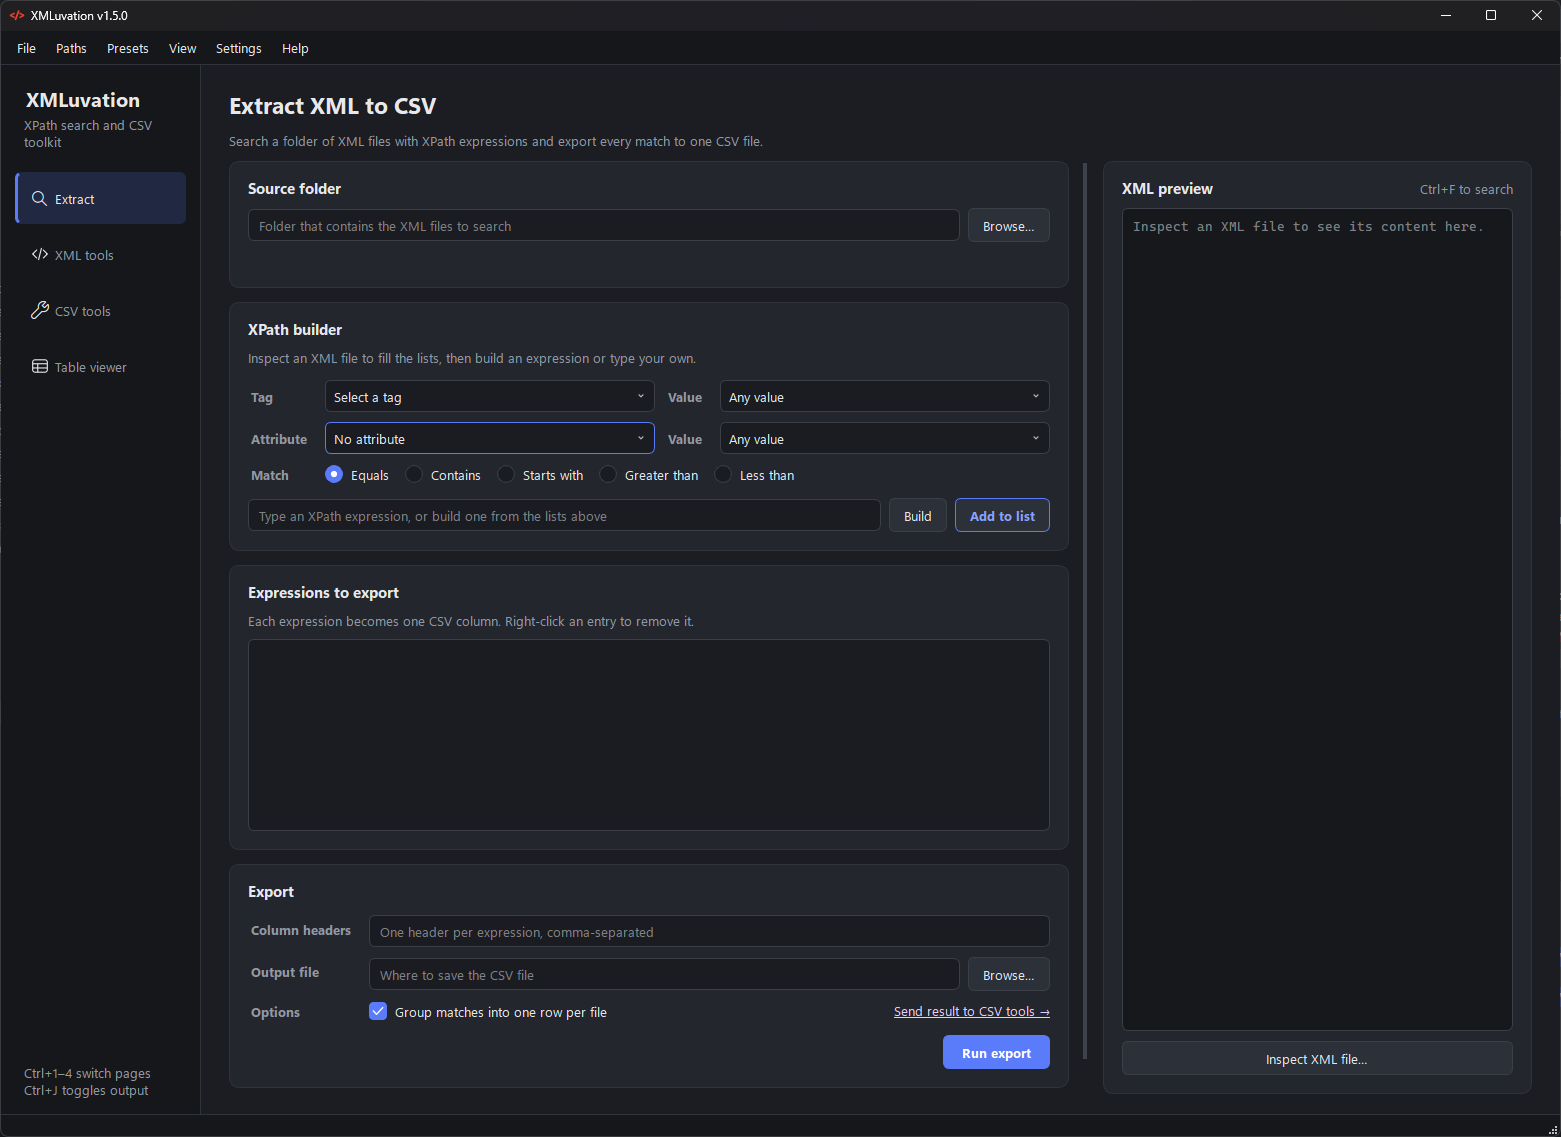
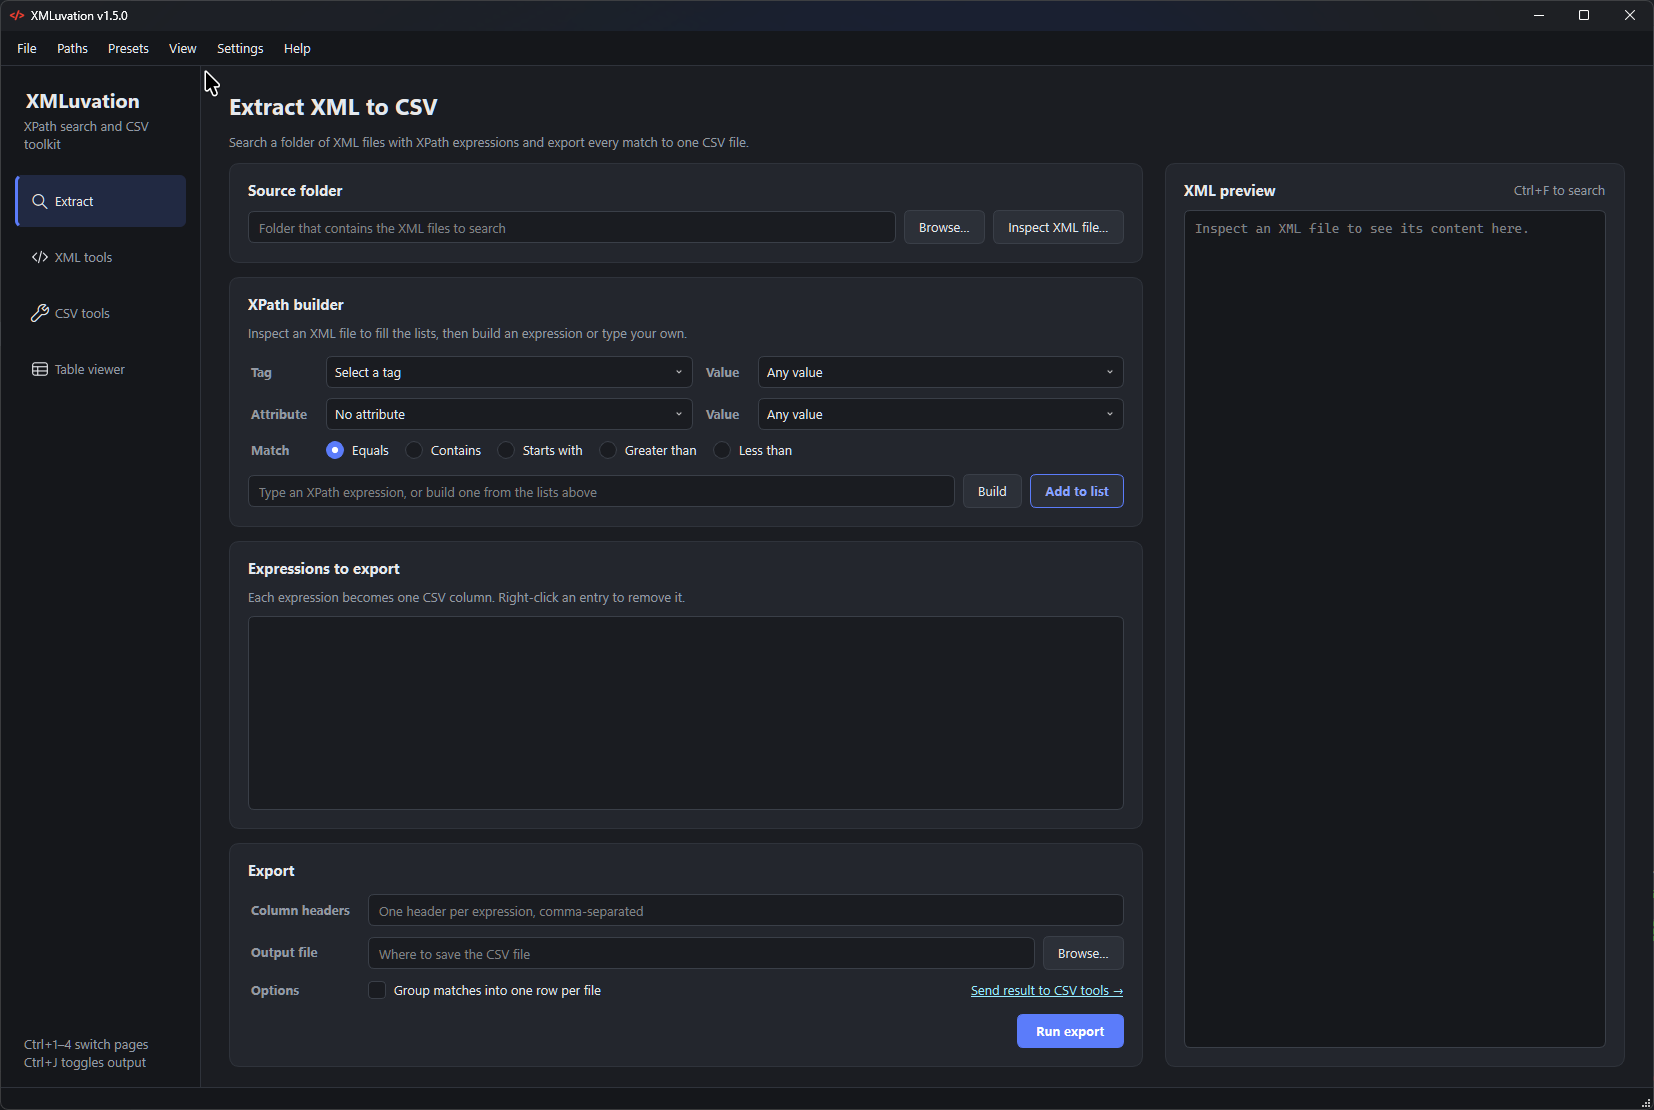
Update: Add GUI screenshots

diff --git a/README.md b/README.md
@@ -1,6 +1,7 @@
 # Screenshots
 
-![Main](docs/shots/dark_theme_default_main_view.png)
+![Main Dark](docs/shots/dark_theme_default_main_view.png)
+![Main Light](docs/shots/light_theme_default_main_view.png)
 
 # Running from source
 
